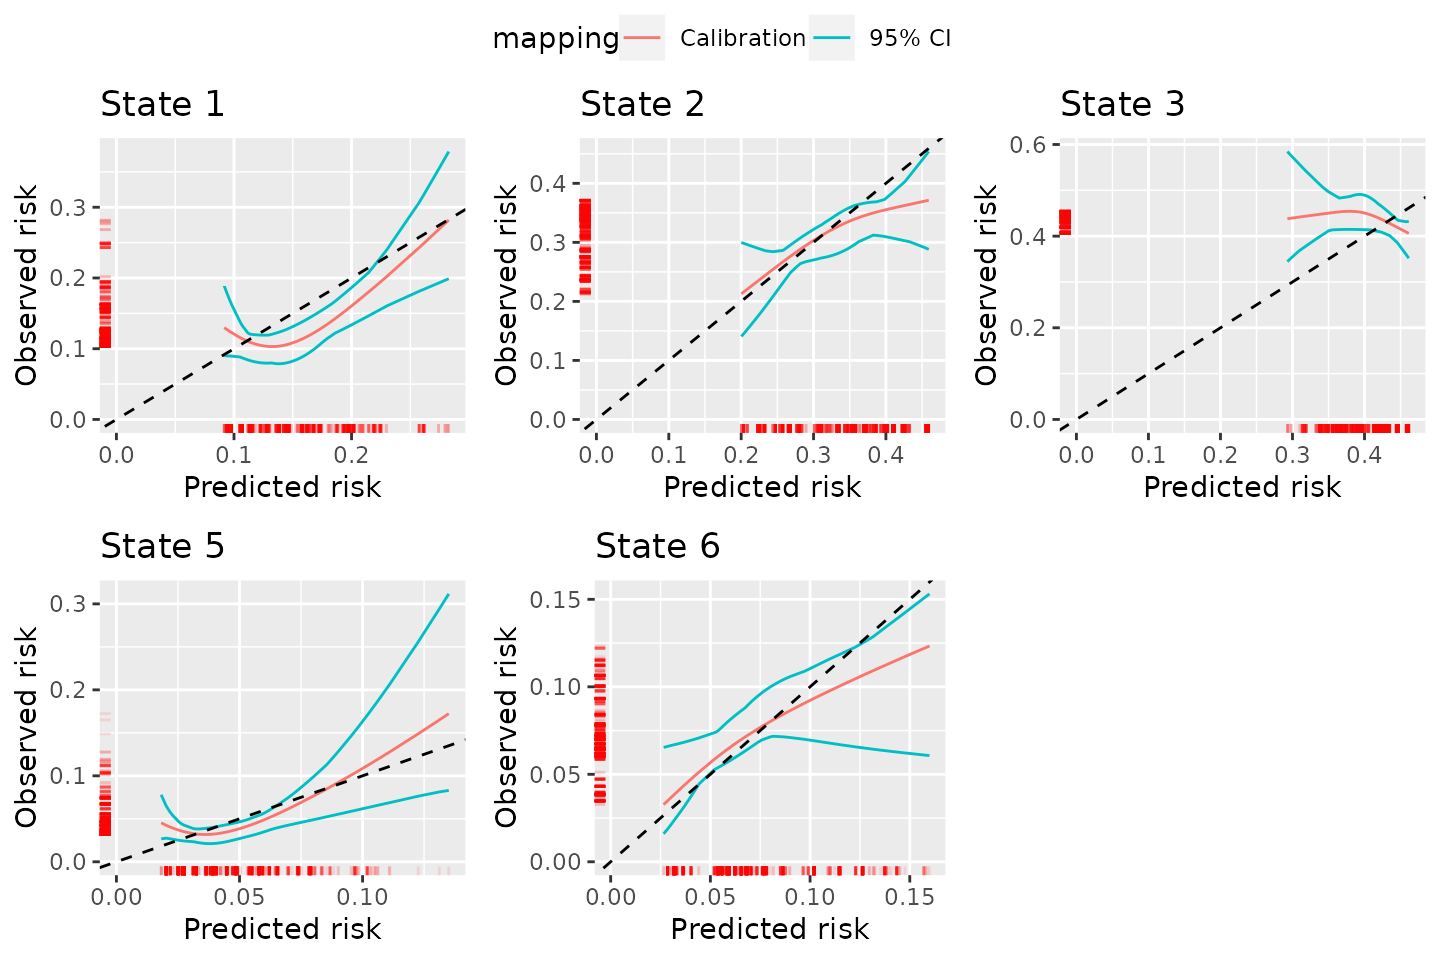
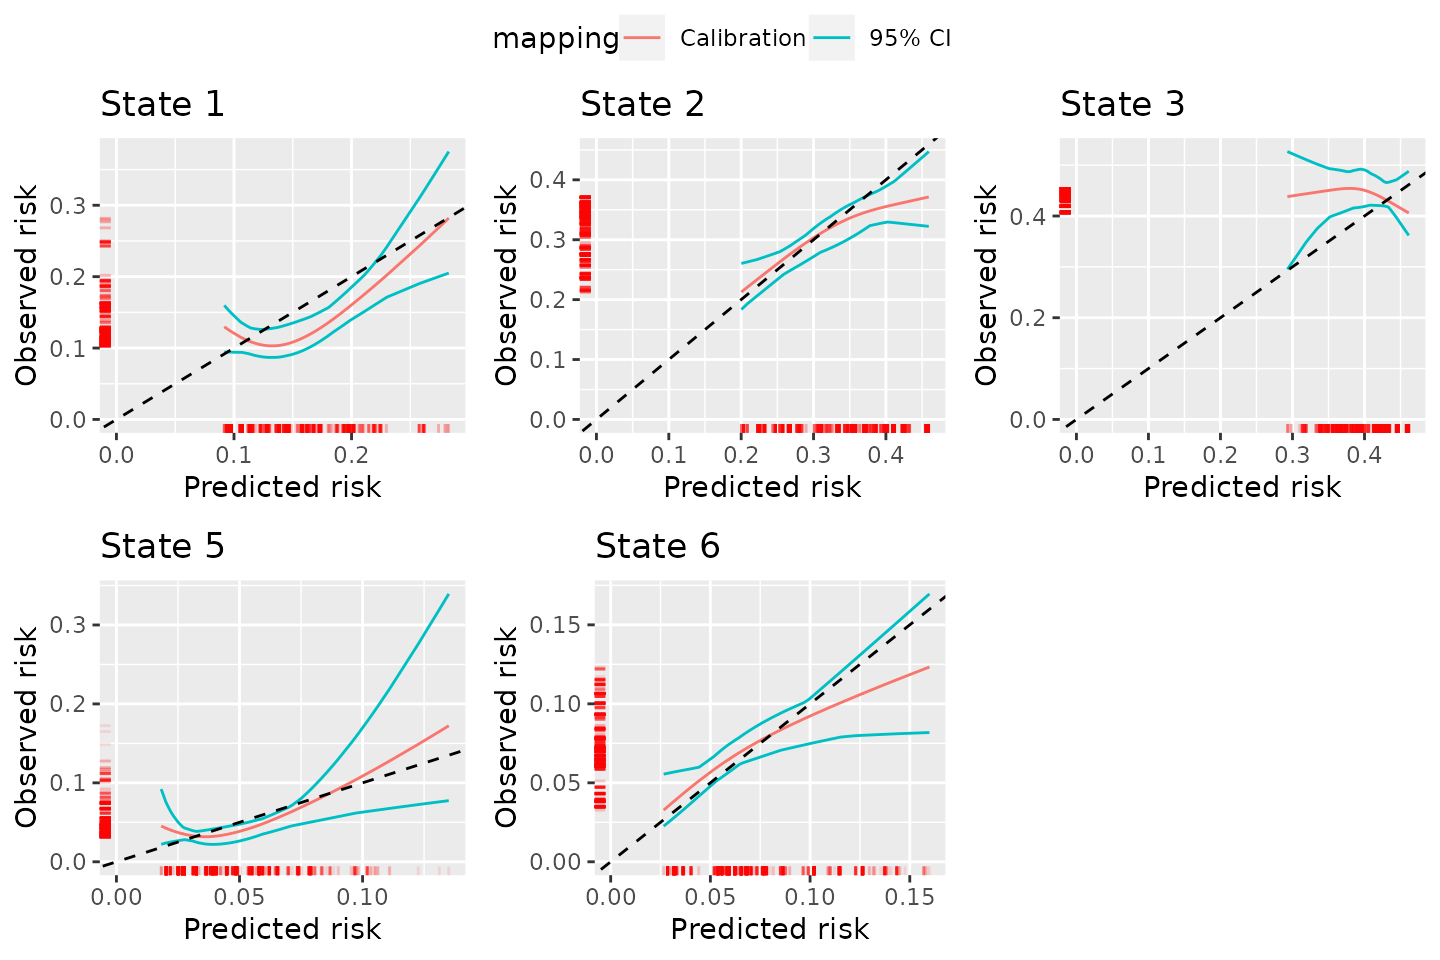
Deploying to gh-pages from @ alexpate30/calibmsm@7166c182c3a4e6dffef1a5396a7eb28b912f4a72 🚀

diff --git a/reference/calib_blr.html b/reference/calib_blr.html
@@ -267,38 +267,38 @@ in the vignette XXXX.</p>
 <span class="r-out co"><span class="r-pr">#&gt;</span>   .. ..$ id       : int [1:1778] 2 4 5 7 10 13 14 16 18 19 ...</span>
 <span class="r-out co"><span class="r-pr">#&gt;</span>   .. ..$ pred     : num [1:1778] 0.114 0.1384 0.1233 0.0974 0.1137 ...</span>
 <span class="r-out co"><span class="r-pr">#&gt;</span>   .. ..$ obs      : num [1:1778] 0.11 0.104 0.105 0.124 0.11 ...</span>
-<span class="r-out co"><span class="r-pr">#&gt;</span>   .. ..$ obs.lower: num [1:1778] 0.0904 0.0831 0.0893 0.0857 0.0903 ...</span>
-<span class="r-out co"><span class="r-pr">#&gt;</span>   .. ..$ obs.upper: num [1:1778] 0.136 0.123 0.126 0.168 0.137 ...</span>
+<span class="r-out co"><span class="r-pr">#&gt;</span>   .. ..$ obs.lower: num [1:1778] 0.0892 0.0827 0.0871 0.084 0.0893 ...</span>
+<span class="r-out co"><span class="r-pr">#&gt;</span>   .. ..$ obs.upper: num [1:1778] 0.137 0.127 0.129 0.167 0.137 ...</span>
 <span class="r-out co"><span class="r-pr">#&gt;</span>   ..$ state2:'data.frame':	1778 obs. of  5 variables:</span>
 <span class="r-out co"><span class="r-pr">#&gt;</span>   .. ..$ id       : int [1:1778] 2 4 5 7 10 13 14 16 18 19 ...</span>
 <span class="r-out co"><span class="r-pr">#&gt;</span>   .. ..$ pred     : num [1:1778] 0.232 0.184 0.161 0.212 0.232 ...</span>
 <span class="r-out co"><span class="r-pr">#&gt;</span>   .. ..$ obs      : num [1:1778] 0.17 0.186 0.176 0.179 0.17 ...</span>
-<span class="r-out co"><span class="r-pr">#&gt;</span>   .. ..$ obs.lower: num [1:1778] 0.115 0.155 0.144 0.14 0.116 ...</span>
-<span class="r-out co"><span class="r-pr">#&gt;</span>   .. ..$ obs.upper: num [1:1778] 0.229 0.216 0.211 0.21 0.229 ...</span>
+<span class="r-out co"><span class="r-pr">#&gt;</span>   .. ..$ obs.lower: num [1:1778] 0.119 0.154 0.143 0.143 0.119 ...</span>
+<span class="r-out co"><span class="r-pr">#&gt;</span>   .. ..$ obs.upper: num [1:1778] 0.242 0.22 0.213 0.216 0.242 ...</span>
 <span class="r-out co"><span class="r-pr">#&gt;</span>   ..$ state3:'data.frame':	1778 obs. of  5 variables:</span>
 <span class="r-out co"><span class="r-pr">#&gt;</span>   .. ..$ id       : int [1:1778] 2 4 5 7 10 13 14 16 18 19 ...</span>
 <span class="r-out co"><span class="r-pr">#&gt;</span>   .. ..$ pred     : num [1:1778] 0.0844 0.0758 0.0551 0.0615 0.0844 ...</span>
 <span class="r-out co"><span class="r-pr">#&gt;</span>   .. ..$ obs      : num [1:1778] 0.1249 0.1167 0.0919 0.1001 0.1248 ...</span>
-<span class="r-out co"><span class="r-pr">#&gt;</span>   .. ..$ obs.lower: num [1:1778] 0.0937 0.0891 0.0509 0.0641 0.0937 ...</span>
-<span class="r-out co"><span class="r-pr">#&gt;</span>   .. ..$ obs.upper: num [1:1778] 0.153 0.141 0.149 0.143 0.153 ...</span>
+<span class="r-out co"><span class="r-pr">#&gt;</span>   .. ..$ obs.lower: num [1:1778] 0.0953 0.0895 0.0453 0.0572 0.0952 ...</span>
+<span class="r-out co"><span class="r-pr">#&gt;</span>   .. ..$ obs.upper: num [1:1778] 0.151 0.14 0.138 0.136 0.151 ...</span>
 <span class="r-out co"><span class="r-pr">#&gt;</span>   ..$ state4:'data.frame':	1778 obs. of  5 variables:</span>
 <span class="r-out co"><span class="r-pr">#&gt;</span>   .. ..$ id       : int [1:1778] 2 4 5 7 10 13 14 16 18 19 ...</span>
 <span class="r-out co"><span class="r-pr">#&gt;</span>   .. ..$ pred     : num [1:1778] 0.233 0.218 0.183 0.221 0.233 ...</span>
 <span class="r-out co"><span class="r-pr">#&gt;</span>   .. ..$ obs      : num [1:1778] 0.243 0.224 0.185 0.228 0.243 ...</span>
-<span class="r-out co"><span class="r-pr">#&gt;</span>   .. ..$ obs.lower: num [1:1778] 0.2 0.195 0.153 0.197 0.2 ...</span>
-<span class="r-out co"><span class="r-pr">#&gt;</span>   .. ..$ obs.upper: num [1:1778] 0.284 0.256 0.222 0.259 0.284 ...</span>
+<span class="r-out co"><span class="r-pr">#&gt;</span>   .. ..$ obs.lower: num [1:1778] 0.2 0.191 0.16 0.192 0.2 ...</span>
+<span class="r-out co"><span class="r-pr">#&gt;</span>   .. ..$ obs.upper: num [1:1778] 0.277 0.25 0.213 0.255 0.277 ...</span>
 <span class="r-out co"><span class="r-pr">#&gt;</span>   ..$ state5:'data.frame':	1778 obs. of  5 variables:</span>
 <span class="r-out co"><span class="r-pr">#&gt;</span>   .. ..$ id       : int [1:1778] 2 4 5 7 10 13 14 16 18 19 ...</span>
 <span class="r-out co"><span class="r-pr">#&gt;</span>   .. ..$ pred     : num [1:1778] 0.148 0.154 0.143 0.144 0.149 ...</span>
 <span class="r-out co"><span class="r-pr">#&gt;</span>   .. ..$ obs      : num [1:1778] 0.191 0.165 0.222 0.212 0.188 ...</span>
-<span class="r-out co"><span class="r-pr">#&gt;</span>   .. ..$ obs.lower: num [1:1778] 0.165 0.146 0.182 0.178 0.163 ...</span>
-<span class="r-out co"><span class="r-pr">#&gt;</span>   .. ..$ obs.upper: num [1:1778] 0.217 0.184 0.267 0.254 0.212 ...</span>
+<span class="r-out co"><span class="r-pr">#&gt;</span>   .. ..$ obs.lower: num [1:1778] 0.167 0.149 0.18 0.176 0.165 ...</span>
+<span class="r-out co"><span class="r-pr">#&gt;</span>   .. ..$ obs.upper: num [1:1778] 0.216 0.185 0.268 0.252 0.212 ...</span>
 <span class="r-out co"><span class="r-pr">#&gt;</span>   ..$ state6:'data.frame':	1778 obs. of  5 variables:</span>
 <span class="r-out co"><span class="r-pr">#&gt;</span>   .. ..$ id       : int [1:1778] 2 4 5 7 10 13 14 16 18 19 ...</span>
 <span class="r-out co"><span class="r-pr">#&gt;</span>   .. ..$ pred     : num [1:1778] 0.189 0.23 0.335 0.264 0.189 ...</span>
 <span class="r-out co"><span class="r-pr">#&gt;</span>   .. ..$ obs      : num [1:1778] 0.207 0.254 0.316 0.28 0.207 ...</span>
-<span class="r-out co"><span class="r-pr">#&gt;</span>   .. ..$ obs.lower: num [1:1778] 0.184 0.228 0.281 0.253 0.184 ...</span>
-<span class="r-out co"><span class="r-pr">#&gt;</span>   .. ..$ obs.upper: num [1:1778] 0.228 0.279 0.344 0.305 0.228 ...</span>
+<span class="r-out co"><span class="r-pr">#&gt;</span>   .. ..$ obs.lower: num [1:1778] 0.186 0.23 0.28 0.258 0.185 ...</span>
+<span class="r-out co"><span class="r-pr">#&gt;</span>   .. ..$ obs.upper: num [1:1778] 0.228 0.281 0.358 0.305 0.228 ...</span>
 <span class="r-out co"><span class="r-pr">#&gt;</span>  $ metadata:List of 8</span>
 <span class="r-out co"><span class="r-pr">#&gt;</span>   ..$ valid.transitions   : num [1:6] 1 2 3 4 5 6</span>
 <span class="r-out co"><span class="r-pr">#&gt;</span>   ..$ assessed.transitions: num [1:6] 1 2 3 4 5 6</span>
@@ -317,7 +317,7 @@ in the vignette XXXX.</p>
 
 
     <footer><div class="pkgdown-footer-left">
-  <p></p><p>Developed by Alexander Pate, Glen Martin.</p>
+  <p></p><p>Developed by Alexander Pate, Glen P Martin.</p>
 </div>
 
 <div class="pkgdown-footer-right">

diff --git a/articles/Comparison-with-graphical-calibration-curves-in-competing-risks-setting.html b/articles/Comparison-with-graphical-calibration-curves-in-competing-risks-setting.html
@@ -226,11 +226,11 @@ the pseudo-value approach, implemented through
 <span>                 n.pctls <span class="op">=</span> <span class="fl">9</span>,</span>
 <span>                 CI <span class="op">=</span> <span class="fl">95</span>,</span>
 <span>                 CI.type <span class="op">=</span> <span class="st">"parametric"</span><span class="op">)</span></span>
-<span><span class="co">#&gt; [1] "Calculate pseudo values for state =  1 2023-07-26 16:24:57.442776"</span></span>
-<span><span class="co">#&gt; [1] "Calculate pseudo values for state =  2 2023-07-26 16:29:59.115464"</span></span>
-<span><span class="co">#&gt; [1] "Calculate pseudo values for state =  3 2023-07-26 16:35:03.322545"</span></span>
-<span><span class="co">#&gt; [1] "Calculate pseudo values for state =  5 2023-07-26 16:39:52.549128"</span></span>
-<span><span class="co">#&gt; [1] "Calculate pseudo values for state =  6 2023-07-26 16:44:35.765244"</span></span>
+<span><span class="co">#&gt; [1] "Calculate pseudo values for state =  1 2023-07-26 17:03:02.602419"</span></span>
+<span><span class="co">#&gt; [1] "Calculate pseudo values for state =  2 2023-07-26 17:06:40.714634"</span></span>
+<span><span class="co">#&gt; [1] "Calculate pseudo values for state =  3 2023-07-26 17:10:20.052706"</span></span>
+<span><span class="co">#&gt; [1] "Calculate pseudo values for state =  5 2023-07-26 17:14:04.27139"</span></span>
+<span><span class="co">#&gt; [1] "Calculate pseudo values for state =  6 2023-07-26 17:17:45.472262"</span></span>
 <span></span>
 <span><span class="co">### Turn into plot and print</span></span>
 <span><span class="va">plot.calibmsm.pv</span> <span class="op">&lt;-</span> <span class="fu"><a href="https://rdrr.io/r/graphics/plot.default.html" class="external-link">plot</a></span><span class="op">(</span><span class="va">dat.calib.pv</span>, combine <span class="op">=</span> <span class="cn">TRUE</span>, nrow <span class="op">=</span> <span class="fl">2</span>, ncol <span class="op">=</span> <span class="fl">3</span><span class="op">)</span></span></code></pre></div>
@@ -317,7 +317,7 @@ Software</em> 38 (7).
 
     <footer><div class="pkgdown-footer-left">
   <p></p>
-<p>Developed by Alexander Pate, Glen Martin.</p>
+<p>Developed by Alexander Pate, Glen P Martin.</p>
 </div>
 
 <div class="pkgdown-footer-right">

diff --git a/index.html b/index.html
@@ -155,7 +155,7 @@
 <h2 data-toc-skip>Developers</h2>
 <ul class="list-unstyled">
 <li>Alexander Pate <br><small class="roles"> Author, maintainer, copyright holder </small> <a href="https://orcid.org/0000-0002-0849-3458" target="orcid.widget" aria-label="ORCID" class="external-link"><span class="fab fa-orcid orcid" aria-hidden="true"></span></a> </li>
-<li>Glen Martin <br><small class="roles"> Funder, reviewer </small> <a href="https://orcid.org/0000-0002-3410-9472" target="orcid.widget" aria-label="ORCID" class="external-link"><span class="fab fa-orcid orcid" aria-hidden="true"></span></a> </li>
+<li>Glen P Martin <br><small class="roles"> Funder, reviewer </small> <a href="https://orcid.org/0000-0002-3410-9472" target="orcid.widget" aria-label="ORCID" class="external-link"><span class="fab fa-orcid orcid" aria-hidden="true"></span></a> </li>
 </ul>
 </div>
 
@@ -173,7 +173,7 @@
 
     <footer><div class="pkgdown-footer-left">
   <p></p>
-<p>Developed by Alexander Pate, Glen Martin.</p>
+<p>Developed by Alexander Pate, Glen P Martin.</p>
 </div>
 
 <div class="pkgdown-footer-right">

diff --git a/authors.html b/authors.html
@@ -54,7 +54,7 @@
           </p>
         </li>
         <li>
-          <p><strong>Glen Martin</strong>. Funder, reviewer. <a href="https://orcid.org/0000-0002-3410-9472" target="orcid.widget" aria-label="ORCID" class="external-link"><span class="fab fa-orcid orcid" aria-hidden="true"></span></a>
+          <p><strong>Glen P Martin</strong>. Funder, reviewer. <a href="https://orcid.org/0000-0002-3410-9472" target="orcid.widget" aria-label="ORCID" class="external-link"><span class="fab fa-orcid orcid" aria-hidden="true"></span></a>
           </p>
         </li>
       </ul></div>
@@ -80,7 +80,7 @@ R package version 0.0.0.9000, <a href="https://alexpate30.github.io/calibmsm/">h
 
 
     <footer><div class="pkgdown-footer-left">
-  <p></p><p>Developed by Alexander Pate, Glen Martin.</p>
+  <p></p><p>Developed by Alexander Pate, Glen P Martin.</p>
 </div>
 
 <div class="pkgdown-footer-right">

diff --git a/reference/calc_weights.html b/reference/calc_weights.html
@@ -165,7 +165,7 @@ before the time of entry into the absorbing state, rather than at <code>t</code>
 
 
     <footer><div class="pkgdown-footer-left">
-  <p></p><p>Developed by Alexander Pate, Glen Martin.</p>
+  <p></p><p>Developed by Alexander Pate, Glen P Martin.</p>
 </div>
 
 <div class="pkgdown-footer-right">

diff --git a/reference/calib_mlr.html b/reference/calib_mlr.html
@@ -299,7 +299,7 @@ including a vector of the possible transitions and other user specified informat
 
 
     <footer><div class="pkgdown-footer-left">
-  <p></p><p>Developed by Alexander Pate, Glen Martin.</p>
+  <p></p><p>Developed by Alexander Pate, Glen P Martin.</p>
 </div>
 
 <div class="pkgdown-footer-right">

diff --git a/reference/calib_pv.html b/reference/calib_pv.html
@@ -257,7 +257,7 @@ Confidence intervals for the calibration curves can be estimated using bootstrap
 
 
     <footer><div class="pkgdown-footer-left">
-  <p></p><p>Developed by Alexander Pate, Glen Martin.</p>
+  <p></p><p>Developed by Alexander Pate, Glen P Martin.</p>
 </div>
 
 <div class="pkgdown-footer-right">

diff --git a/reference/msebmtcal.cmprsk.html b/reference/msebmtcal.cmprsk.html
@@ -104,7 +104,7 @@ However, only transitions out of the initial state are considered, making this d
 
 
     <footer><div class="pkgdown-footer-left">
-  <p></p><p>Developed by Alexander Pate, Glen Martin.</p>
+  <p></p><p>Developed by Alexander Pate, Glen P Martin.</p>
 </div>
 
 <div class="pkgdown-footer-right">

diff --git a/reference/plot.calib_blr.html b/reference/plot.calib_blr.html
@@ -101,7 +101,7 @@ class <code>list</code>, each element containing an object of class <code>gg</co
 
 
     <footer><div class="pkgdown-footer-left">
-  <p></p><p>Developed by Alexander Pate, Glen Martin.</p>
+  <p></p><p>Developed by Alexander Pate, Glen P Martin.</p>
 </div>
 
 <div class="pkgdown-footer-right">

diff --git a/reference/plot.calib_mlr.html b/reference/plot.calib_mlr.html
@@ -113,7 +113,7 @@ class <code>list</code>, each element containing an object of class <code>gg</co
 
 
     <footer><div class="pkgdown-footer-left">
-  <p></p><p>Developed by Alexander Pate, Glen Martin.</p>
+  <p></p><p>Developed by Alexander Pate, Glen P Martin.</p>
 </div>
 
 <div class="pkgdown-footer-right">

diff --git a/reference/plot.calib_pv.html b/reference/plot.calib_pv.html
@@ -101,7 +101,7 @@ class <code>list</code>, each element containing an object of class <code>gg</co
 
 
     <footer><div class="pkgdown-footer-left">
-  <p></p><p>Developed by Alexander Pate, Glen Martin.</p>
+  <p></p><p>Developed by Alexander Pate, Glen P Martin.</p>
 </div>
 
 <div class="pkgdown-footer-right">

diff --git a/reference/tp.cmprsk.j0.html b/reference/tp.cmprsk.j0.html
@@ -86,7 +86,7 @@ are made at out of state j = 1 at time s = 0, and treat all states as absorbing 
 
 
     <footer><div class="pkgdown-footer-left">
-  <p></p><p>Developed by Alexander Pate, Glen Martin.</p>
+  <p></p><p>Developed by Alexander Pate, Glen P Martin.</p>
 </div>
 
 <div class="pkgdown-footer-right">
